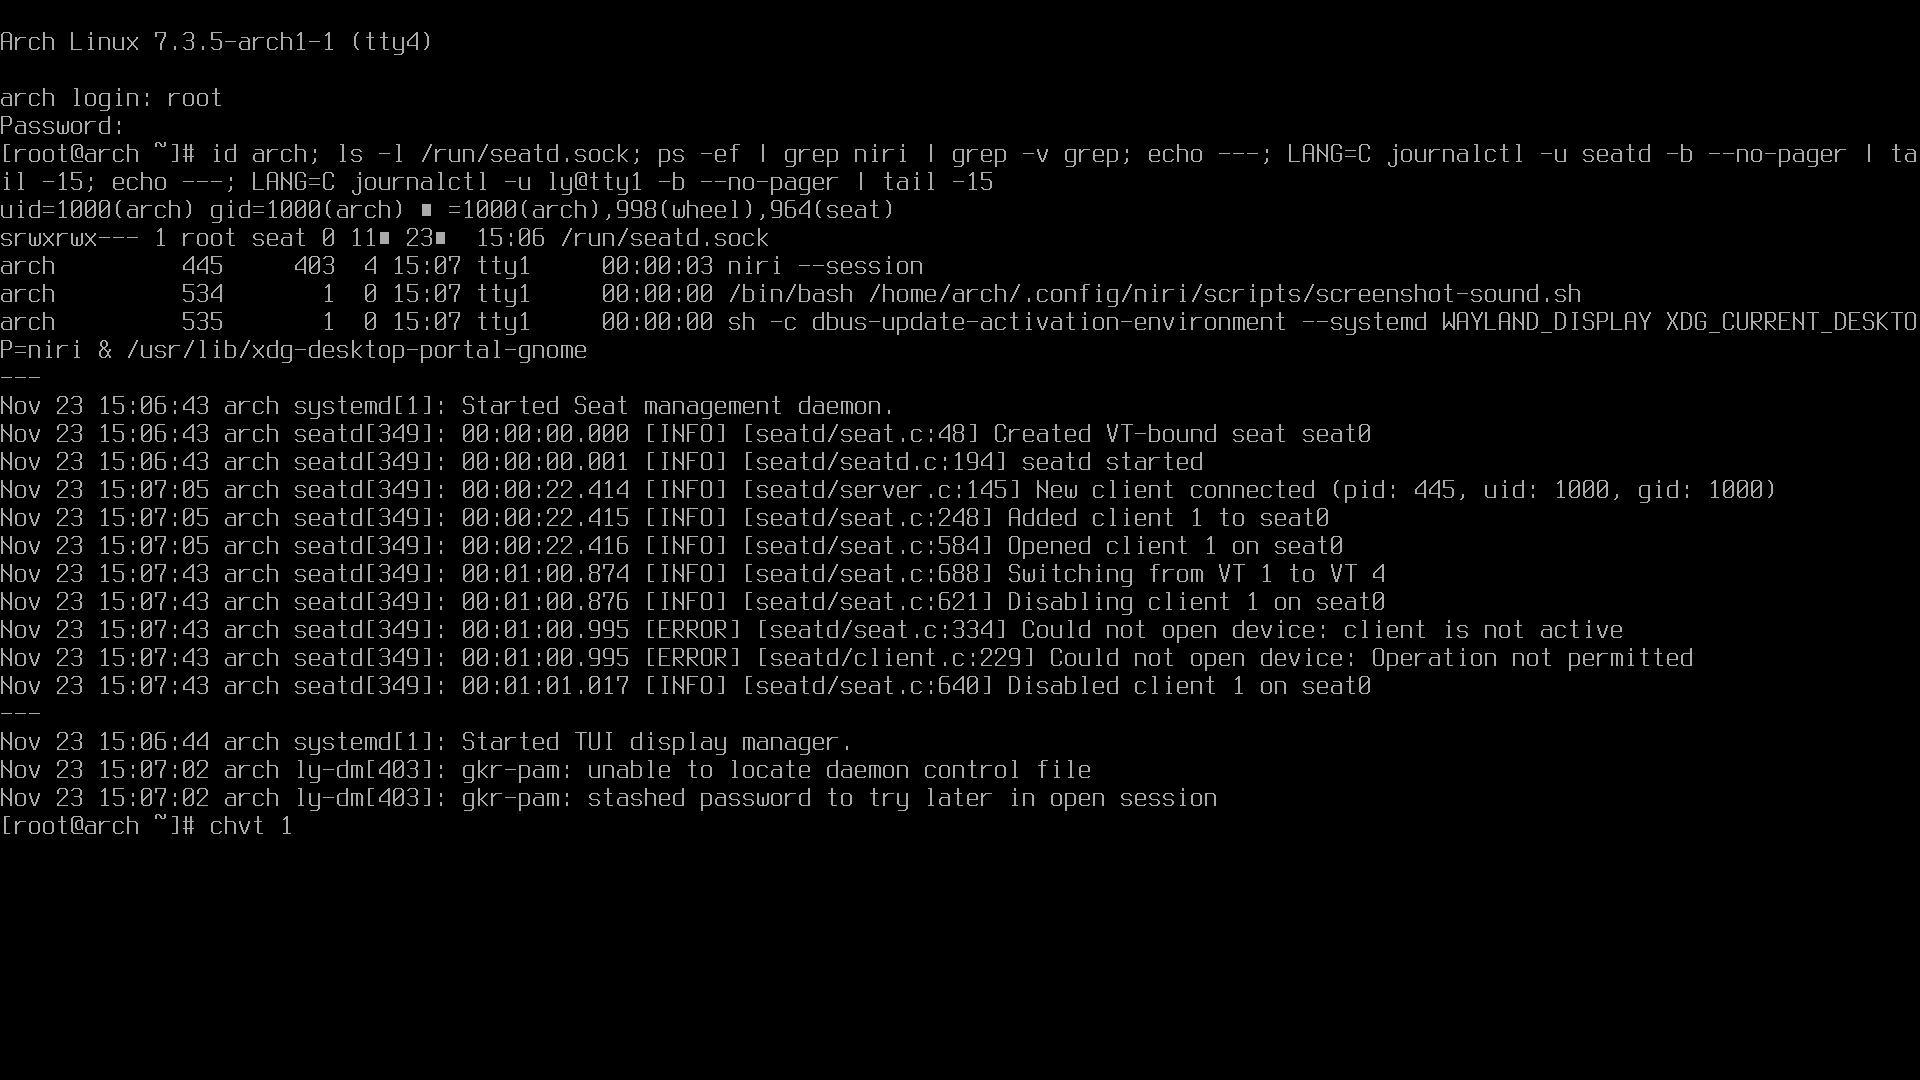
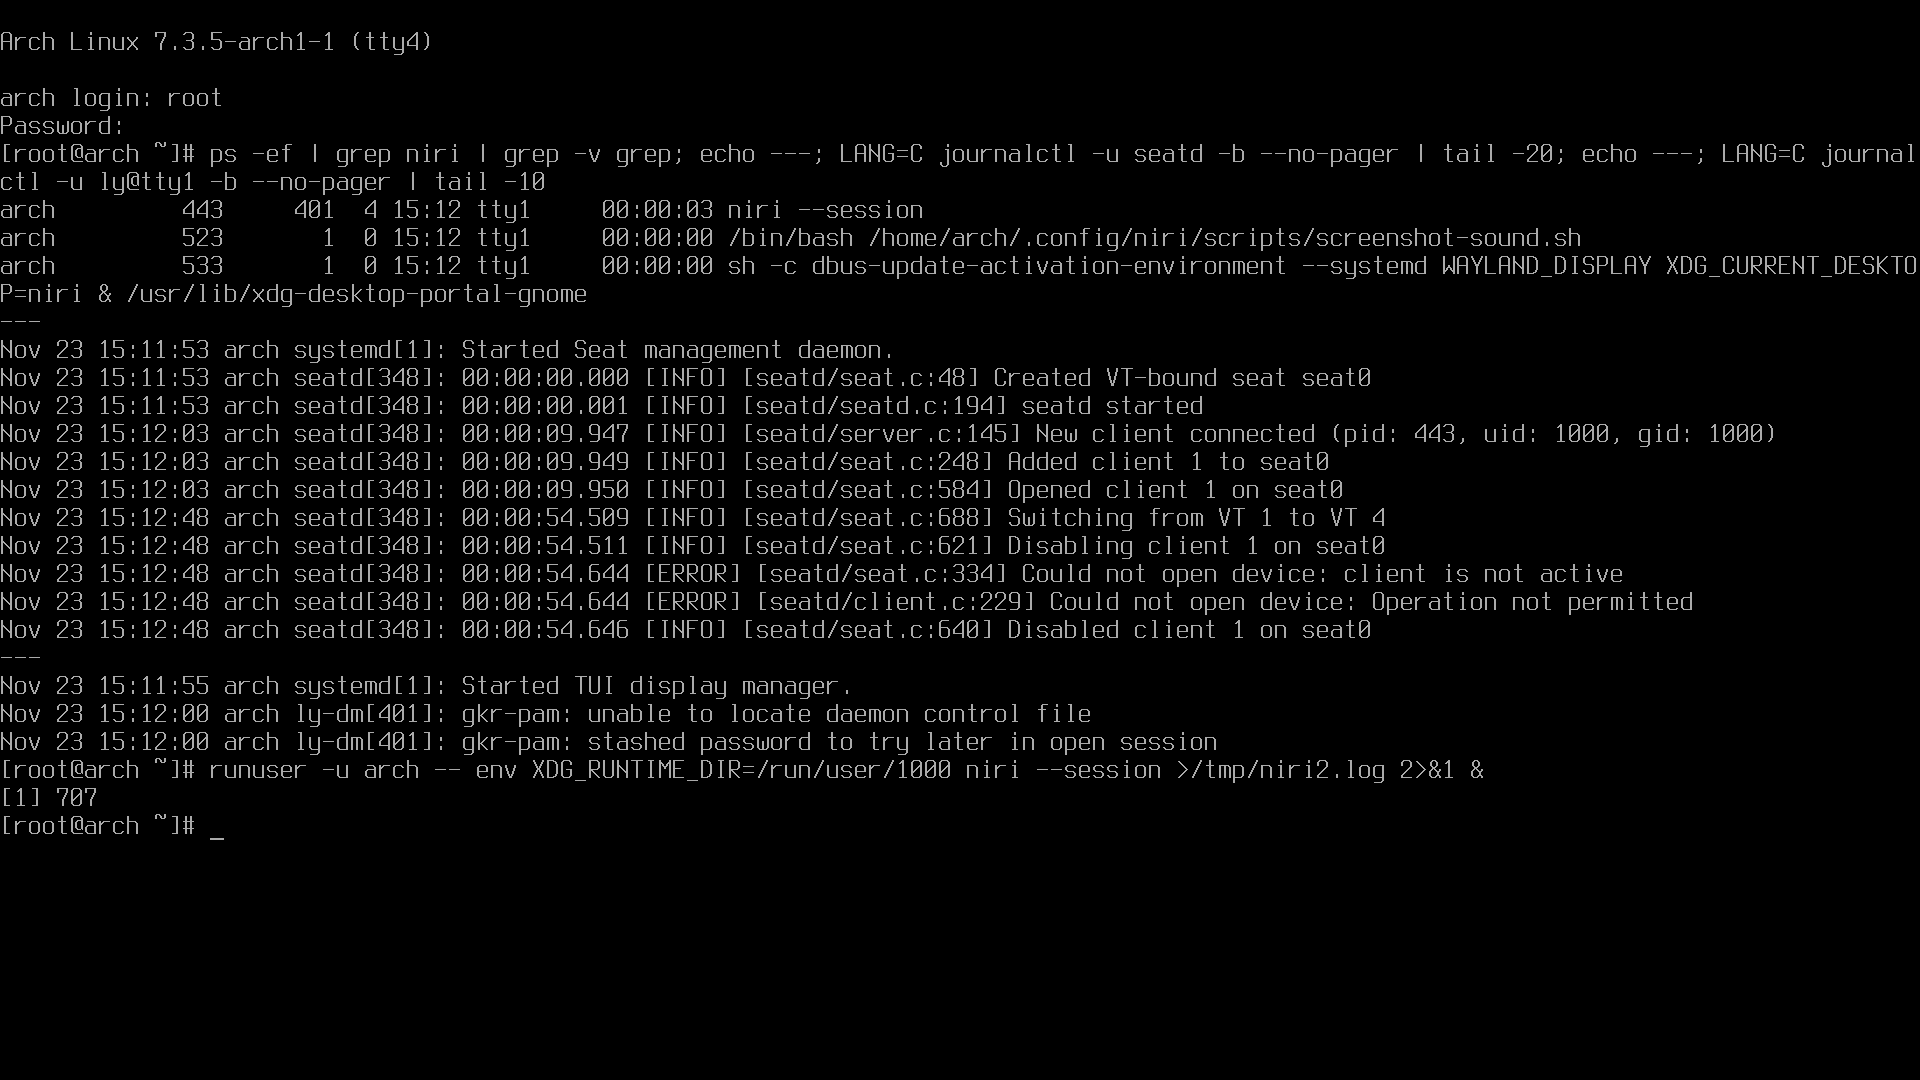
docs(vm): record seatd/ly/niri VM graphics findings

diff --git a/vm/WALKTHROUGH.md b/vm/WALKTHROUGH.md
@@ -196,9 +196,20 @@ sudo shorin-undochange
 | 现象 | 处理 |
 |---|---|
 | 9p 挂载失败 | `modprobe 9pnet_virtio` 后重试；或重启 VM |
-| 重启又进 ISO | 关机后 `VM_DISK=... bash vm/run.sh` 并手动 `-boot order=c`；或 GRUB 菜单选 Arch |
-| 登录后黑屏 | TTY 里 `niri-session`，看 `journalctl --user -b` |
+| 重启又进 ISO | 用 `VM_NO_ISO=1 bash vm/run.sh ...`（不挂 ISO，强制走硬盘） |
+| ly 登录报 authentication error | 用 HMP/手动输入；确认密码 `arch`。QMP `input-send-event` 对 ly 不稳，`sendkey` 可用 |
+| 登录后黑屏 / niri 停在 `niri_config: loaded config` | `systemctl status seatd`；`id arch` 应含 `seat` 组；`journalctl -u seatd -b`。新版 04n 会自动 enable seatd |
+| `niri-session` 报 dinit 相关错误 | 04n 已把 `/usr/share/wayland-sessions/niri.desktop` 改成 `Exec=niri --session` |
 | waybar 不出现 | `pkill waybar; waybar &`，看 stderr |
 | 中文变方块 | `fc-list :lang=zh`；缺字体则 `sudo pacman -S noto-fonts-cjk` |
 | 没有壁纸/不取色 | `matugen` 是否安装；`rice-wallpaper random` 手动跑 |
 | AUR 构建失败 | 看 `/tmp/rice-live.log` 与 `~/Documents/log-shorin-arch-setup.txt` |
+
+### VM 图形限制
+
+- 本机是 Apple Silicon，x86_64 走 TCG；niri 在 `virtio-gpu`/TCG 下可能一直停在
+  `niri_config: loaded config`，而 `seatd` 已打开 seat。这更像 QEMU/TCG 的图形后端问题，
+  不代表真实硬件。
+- QEMU 的 Cocoa 窗口在 niri 接手 DRM 后可能显示 `Display output is not active`；
+  用 `VM_VNC=127.0.0.1:0` 启动，然后 macOS「屏幕共享」连 `vnc://localhost:5900` 查看。
+- 最终桌面验证建议在真实 Arch 硬件（或带 GPU 加速的 UTM/virtio-gpu）上做。
